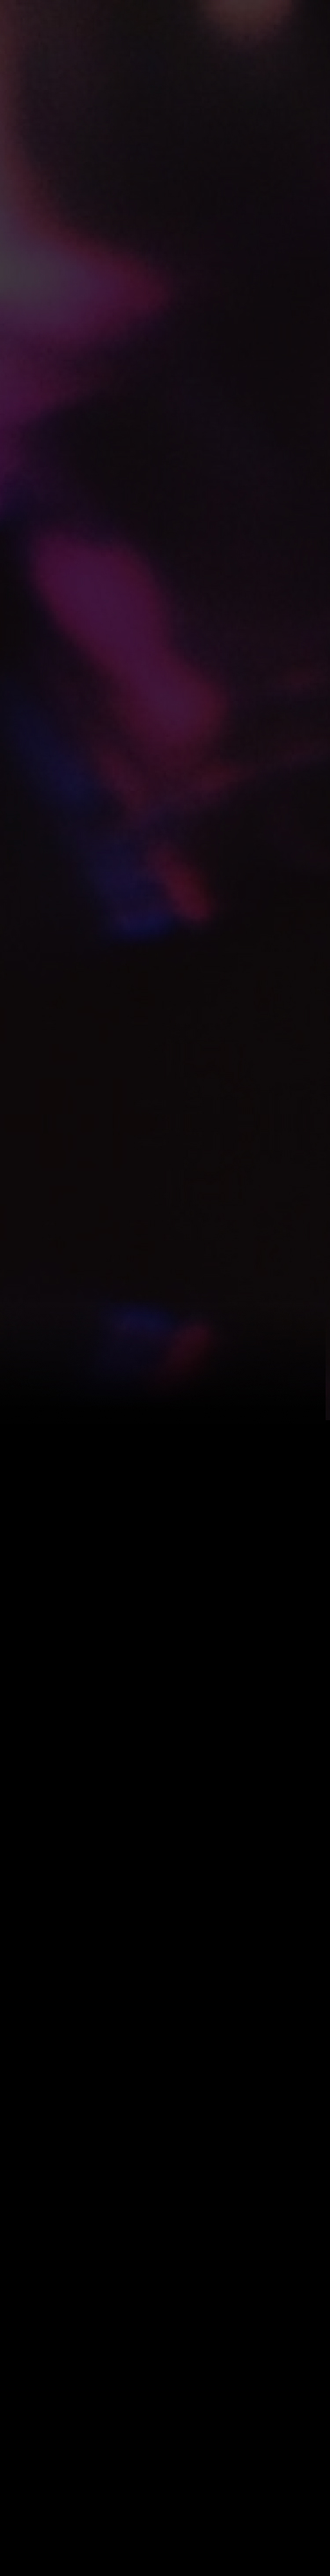
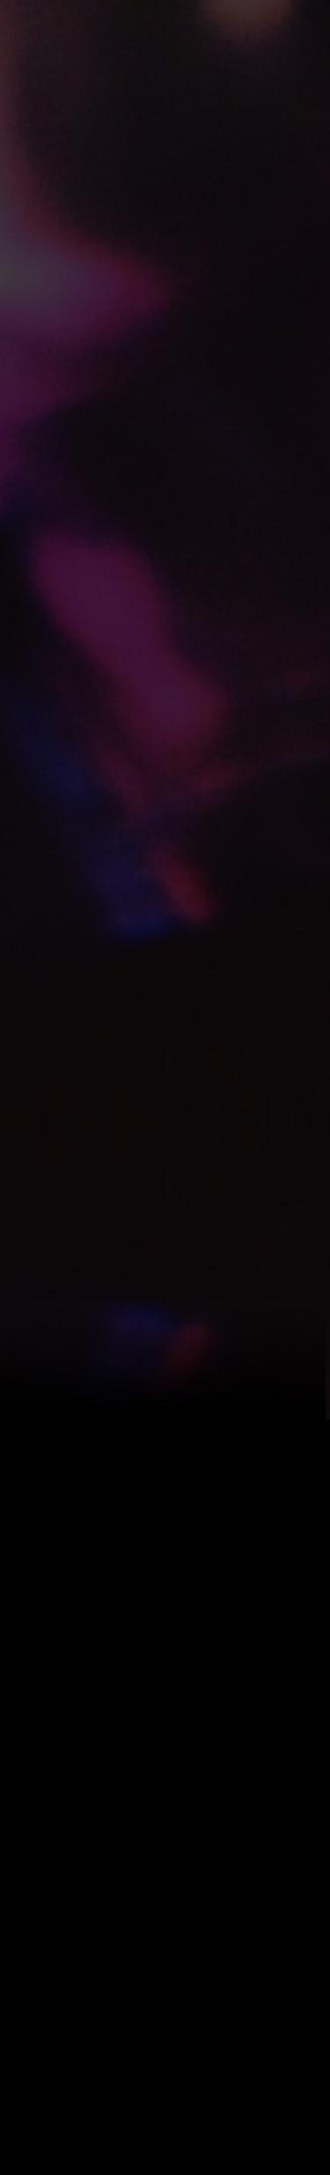
правки в book, svg расстановка

diff --git a/src/UI/Book/book.module.css b/src/UI/Book/book.module.css
@@ -14,6 +14,22 @@
     width: 14%;
   
 }
+.topGradient{
+  position: absolute;
+  width: 100%;
+  height: 41%;
+  top: -41%;
+  left: 0%;
+  background: linear-gradient(0deg, #000000 11%, rgba(0, 0, 0, 0) 100%);
+}
+.bottomGradient{
+  position: absolute;
+  width: 100%;
+  height: 41%;
+  top: 100%;
+  left: 0%;
+  background:  linear-gradient(180deg, #000000 11%, rgba(0, 0, 0, 0) 100%);;
+}
 .container {
   margin: 0 auto;
   margin-top: 64px;
@@ -26,13 +42,23 @@
 }
 .containerMain {
   margin: 0 auto;
-  margin-top: 64px;
+  margin-top: 0;
   text-align: center;
   width: 100vw;
   height: 41vw;
   position: relative;
   background: url('../../assets/book/blackFilmGradientTop.png') 0 0/100% 100% no-repeat;
   margin-bottom: 35vw;
+}
+ .containerVideo{
+  margin: 0 auto;
+  margin-top: 0px;
+  text-align: center;
+  width: 100vw;
+  height: 41vw;
+  position: relative;
+  background: url('../../assets/book/blackFilmGradient.png') 0 0/100% 100% no-repeat;
+  margin-bottom: 18vmin;
 }
 .imageBlock {
   background-color: rgba(0, 0, 255, 0.527);
@@ -72,16 +98,30 @@
   margin-bottom: 9%;
 }
 @media screen and (max-width: 425px) {
+  .topGradient{
+    position: absolute;
+    width: 100%;
+    height: 21%;
+    top: -21%;
+    left: 0%;
+    background:  linear-gradient(0deg, #000000 11%, rgba(0, 0, 0, 0) 100%);;
+  }
+  .bottomGradient{
+    display: none;
+  }
   .sketchVideo, .sketchInstitutions {
     display: none;
   }
   .background{
     display: none;
   }
-  .container {
+  .container, .containerMain, .containerVideo {
     width: 100vw;
     height: 173vw;
     background: url('../../assets/book/blackFilmMobile.png') 0 0/100% 100% no-repeat;
+  }
+  .containerVideo{
+    margin-bottom: 9vmin;
   }
   .imageBlock {
    
@@ -115,6 +155,7 @@
 
 
 @media screen and (min-width: 1440px) {
+  
   .container{
     width: 1440px;
     height: 556px;

diff --git a/src/UI/Book/Book.tsx b/src/UI/Book/Book.tsx
@@ -17,29 +17,43 @@ type BookProps = {
 }
 
 function Book({
-  data={
+  data = {
 
-    text:'Современные технологии достигли такого уровня, что перспективное планирование способствует.',
-    title:'Связаться с заведением',
+    text: 'Современные технологии достигли такого уровня, что перспективное планирование способствует.',
+    title: 'Связаться с заведением',
     image: '/api/imageSS'
   },
   page,
-  }:BookProps) {
+}: BookProps) {
+
+  let container = styles.container
+  if (page === "main") {
+    container = styles.containerMain
+  }
+  if (page==="video") {
+    container = styles.containerVideo
+  }
  
-  const container =  (page==="main") ? styles.containerMain : styles.container 
-  
-  
+
   return (
-    <section className={ container }>
+    <section  className={container}>
       {
-        page==='institutions' &&
-        <img className={styles.sketchInstitutions}  src={sketchInstitutions} alt="" />
+        page === 'institutions' &&
+        <>
+          <img className={styles.sketchInstitutions} src={sketchInstitutions} alt="" />
+          <div className={styles.bottomGradient}></div>
+          <div className={styles.topGradient}></div>
+        </>
       }
       {
-        page === 'video' && 
-        <img className={styles.sketchVideo}  src={sketchVideo} alt="" />
+        page === 'video' &&
+        <>
+          <img className={styles.sketchVideo} src={sketchVideo} alt="" />
+          <div className={styles.bottomGradient}></div>
+
+        </>
       }
-      
+
       <div className={styles.imageBlock}>
         <img src={image} className={styles.image} alt="" />
       </div>

diff --git a/src/pages/InstitutionPage/InstitutionPage.tsx b/src/pages/InstitutionPage/InstitutionPage.tsx
@@ -1,24 +1,33 @@
 import React from 'react';
-import styles from './styles.module.css'
+import styles from './institutionPage.module.css'
 import Top from './components/top/Top';
-import { Container } from '@mui/system';
 import Book from '../../UI/Book/Book';
+import CalendarIcon from '../../UI/CalendarIcon/CalendarIcon';
+import star from '../../assets/institution/star.svg'
+import emoji from '../../assets/institution/emoji.svg'
+import up from '../../assets/institution/up.svg'
+import emojies from '../../assets/institution/emojies.svg'
 
-let bookData= {
 
-  text:' технологии достигли такого уровня, что перспективное планирование способствует.',
-  title:'ЗАказать съёмку',
+let bookData = {
+
+  text: ' технологии достигли такого уровня, что перспективное планирование способствует.',
+  title: 'Зaказать съёмку',
   image: '/api/imageSS'
 }
 const InstitutionPage = () => {
   return <div className={styles.back}>
-    <Container disableGutters maxWidth='xl'>
+    <CalendarIcon />
+    <section className={styles.container}>
+      <img className={styles.star} src={star} alt="" />
+      <img className={styles.emoji} src={emoji} alt="" />
+      <img className={styles.up} src={up} alt="" />
+      <img className={styles.emojies} src={emojies} alt="" />
 
       <Top />
       <Book page='institutions' />
 
-    </Container>
-
+    </section>
 
   </div>;
 };

diff --git a/src/pages/InstitutionPage/institutionPage.module.css b/src/pages/InstitutionPage/institutionPage.module.css
@@ -1,0 +1,73 @@
+.back {
+  overflow: hidden;
+  width: 100%;
+  height: 175vw;
+  top: 0px;
+  /* background-color: black; */
+  background: url("../../assets/institution/back.jpg") 0 0/100% 100% no-repeat;
+  /* background-image: url('../../assets/institution/back.webp');
+  background-size: cover;
+  background-attachment: fixed;
+  background-position: 0 0;
+  background-repeat: no-repeat; */
+}
+.container {
+  position: relative;
+  max-width: 1440px;
+  margin: 0 auto;
+}
+.star {
+  position: absolute;
+  top: 47vw;
+  left: 47%;
+  width: 22.6%;
+}
+.emoji {
+  position: absolute;
+  top: 98vw;
+  left: 20%;
+  width: 12%;
+  z-index: 1;
+}
+.emojies {
+  position: absolute;
+  top:154vw;
+  left: 44.4%;
+  width: 10.9%;
+}
+.up {
+  position: absolute;
+  top: 164vw;
+  left: 6.6%;
+  width: 4.7%;
+}
+@media screen and (max-width: 425px) {
+  .back {
+    background: url("../../assets/institution/mobileback.jpg") 0 0/100% 100%
+      no-repeat;
+    height: 593vw;
+  }
+  .star {
+   display: none;
+  }
+  .emoji {
+    position: absolute;
+    top: 50.8%;
+    left: 61%;
+    width: 41%;
+    transform: rotateY(180deg);
+  }
+  .emojies {
+    position: absolute;
+    top:546vw;
+    left: 38%;
+    width: 32%;
+  }
+  .up {
+    position: absolute;
+    top: 564vw;
+    left: 6.6%;
+    width: 21%;
+  }
+
+}

diff --git a/src/pages/InstitutionPage/components/top/top.module.css b/src/pages/InstitutionPage/components/top/top.module.css
@@ -4,6 +4,7 @@
   flex-direction: column;
   justify-content: center;
   position: relative;
+
 }
 /* первая лента */
 .topFilmBlock1 {
@@ -139,12 +140,7 @@
   display: flex;
   justify-content: center;
 }
-.calendar {
-  position: absolute;
-  width: 12%;
-  top: 108%;
-  right: 4%;
-}
+
 
 @media screen and (max-width: 425px) {
   .icon {

diff --git a/src/pages/InstitutionPage/components/top/Top.tsx b/src/pages/InstitutionPage/components/top/Top.tsx
@@ -24,7 +24,7 @@ function Top() {
 
       </div>
       <div className={styles.topPoster}>
-        <img className={styles.calendar} src={calendar} alt="" />
+      
 
         <div className={styles.topFilmBlock1}>
           <img className={styles.topFilm1} src={film1} alt="" />
